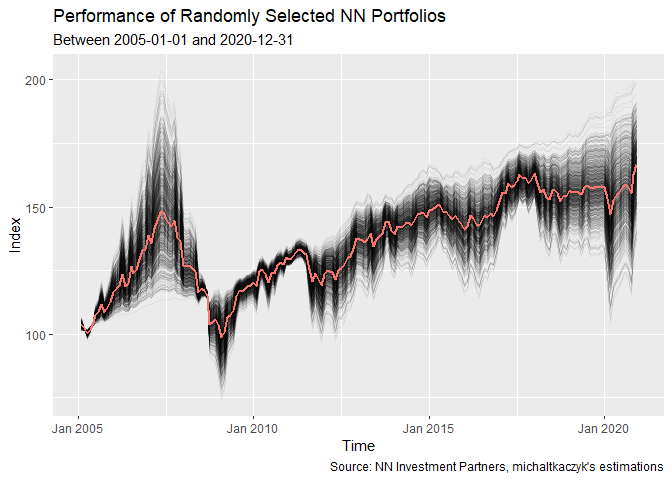
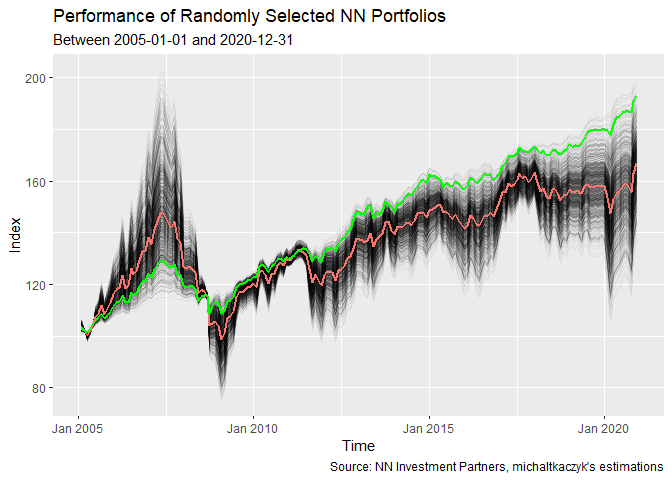
Major style changes to main file

diff --git a/main.md b/main.md
@@ -91,14 +91,8 @@ funds_data <- funds_data %>%
 Let’s see where we got after all of those manipulations.
 
 ``` r
-funds_data_dates <- funds_data %>% 
-    index() %>% 
-    as_tibble() %>% 
-    rename(date = value)
-
 funds_data_long <- funds_data %>%
-    as_tibble() %>%
-    add_column(funds_data_dates) %>% 
+    tk_tbl(rename_index = "date") %>% 
     pivot_longer(!date, "fund") %>%
     group_by(fund) %>% 
     arrange(date) %>% 
@@ -116,83 +110,37 @@ ggplot(funds_data_long, aes(x = date, y = value, color = fund)) +
     ylab("Index")
 ```
 
-![](main_files/figure-gfm/unnamed-chunk-10-1.png)<!-- -->
-
-Let’s check some manually created portfolios’ performance.
+![](main_files/figure-gfm/unnamed-chunk-10-1.png)<!-- --> Let’s try
+randomly generating the portfolios.
 
 ``` r
-manual_portfolios <- rbind(
-    c(1, 0, 0, 0, 0),
-    c(1, 1, 0, 0, 0),
-    c(1, 0, 1, 0, 0),
-    c(1, 0, 0, 1, 0),
-    c(1, 0, 0, 0, 1),
-    c(1, 1, 1, 1, 1)) %>% 
-    apply(1, function(x) x / sum(x)) %>% 
+N_PORTFOLIOS <- 1000
+
+random_portfolios_weights <-
+    N_PORTFOLIOS %>%
+    replicate(generate_random_portfolio_weights(NCOL(funds_data))) %>% 
     t()
 
-manual_portfolios_results <- list()
+colnames(random_portfolios_weights) <- colnames(funds_data)
 
-for (portfolio in 1:NROW(manual_portfolios)) {
-    manual_portfolios_results[[portfolio]] <- 
-        Return.portfolio(funds_data, manual_portfolios[portfolio, ]) %>%
-        as_tibble() %>% 
-        add_column(date = index(funds_data)) %>% 
-        mutate(portfolio = paste("portfolio", portfolio)) %>% 
-        rename(value = portfolio.returns)
+random_portfolios_results_list <- list()
+
+for (portfolio in 1:N_PORTFOLIOS) {
+    random_portfolios_results_list[[portfolio]] <- 
+        Return.portfolio(funds_data, random_portfolios_weights[portfolio, ]) %>%
+        tk_tbl(rename_index = "date") %>% 
+        mutate(
+            value = cumprod(portfolio.returns + 1) * 100,
+            portfolio = paste("portfolio", portfolio)) %>% 
+        select(-portfolio.returns)
 }
 
-portfolio_comparison <- manual_portfolios_results %>%
-    bind_rows() %>% 
-    group_by(portfolio) %>% 
-    mutate(value = cumprod(value + 1) * 100)
+random_portfolios_results <- random_portfolios_results_list %>%
+    bind_rows()
 ```
 
 ``` r
-ggplot(portfolio_comparison, aes(x = date, y = value, color = portfolio)) +
-    geom_line() +
-    labs(
-        title = "Performance of Manually Selected NN Portfolios",
-        subtitle = paste("Between", START_DAY, "and", END_DAY),
-        caption = "Source: NN Investment Partners, michaltkaczyk's estimations",
-        color = "Portfolio") +
-    xlab("Time") +
-    ylab("Index")
-```
-
-![](main_files/figure-gfm/unnamed-chunk-12-1.png)<!-- -->
-
-What if we tried randomly generating the portfolios?
-
-``` r
-n_portfolios <- 1000
-
-random_portfolios <-
-    n_portfolios %>%
-    replicate(generate_random_portfolio_weights(5)) %>% 
-    t()
-
-colnames(random_portfolios) <- colnames(funds_data)
-
-random_portfolios_results <- list()
-
-for (portfolio in 1:NROW(random_portfolios)) {
-    random_portfolios_results[[portfolio]] <- 
-        Return.portfolio(funds_data, random_portfolios[portfolio, ]) %>%
-        as_tibble() %>% 
-        add_column(date = index(funds_data)) %>% 
-        mutate(portfolio = paste("portfolio", portfolio)) %>% 
-        rename(value = portfolio.returns)
-}
-
-random_portfolio_comparison <- random_portfolios_results %>%
-    bind_rows() %>% 
-    group_by(portfolio) %>% 
-    mutate(value = cumprod(value + 1) * 100)
-```
-
-``` r
-ggplot(random_portfolio_comparison) +
+p1 <- ggplot(random_portfolios_results) +
     geom_line(aes(x = date, y = value, group = portfolio), alpha = 0.05) +
     labs(
         title = "Performance of Randomly Selected NN Portfolios",
@@ -202,28 +150,31 @@ ggplot(random_portfolio_comparison) +
     stat_summary(aes(x = date, y = value), fun = mean, geom = "line", color = "#F8766D", size = 1) +
     xlab("Time") +
     ylab("Index")
+
+p1
 ```
 
-![](main_files/figure-gfm/unnamed-chunk-14-1.png)<!-- -->
+![](main_files/figure-gfm/unnamed-chunk-12-1.png)<!-- -->
 
 ``` r
-funds_data_cov <- funds_data %>% cov(use = "na.or.complete")
-funds_data_avg <- funds_data %>% apply(2, mean, na.rm = TRUE)
+funds_expected_returns_vector <- (1 + apply(funds_data, 2, mean, na.rm = TRUE)) ^ 12 - 1
+funds_covariance_matrix <- cov(funds_data, use = "na.or.complete") * 12
 
-random_portfolios_results_avg <- matrix(nrow = NROW(random_portfolios), ncol = 2)
-colnames(random_portfolios_results_avg) <- c("return", "risk")
+random_portfolios_averages <- random_portfolios_weights %>% 
+    as_tibble() %>% 
+    add_column(risk = 0, return = 0)
 
-for (portfolio in 1:NROW(random_portfolios)){
-    random_portfolios_results_avg[portfolio, 1] <- ((1 + sum(random_portfolios[portfolio, ] * funds_data_avg)) ^ 12) - 1
-    random_portfolios_results_avg[portfolio, 2] <- as.numeric(sqrt(random_portfolios[portfolio, ] %*% funds_data_cov %*% random_portfolios[portfolio, ])) * 12
+for (portfolio in 1:N_PORTFOLIOS) {
+    funds_weights <- random_portfolios_weights[portfolio, ]
+    
+    random_portfolios_averages[portfolio, "return"] <-
+        sum(funds_expected_returns_vector * funds_weights)
+    
+    random_portfolios_averages[portfolio, "risk"] <-
+        as.numeric(sqrt(funds_weights %*% funds_covariance_matrix %*% funds_weights))
 }
 
-random_portfolios_results_avg <-
-    bind_cols(
-        as_tibble(random_portfolios_results_avg),
-        as_tibble(random_portfolios))
-
-ggplot(random_portfolios_results_avg, aes(x = risk, y = return)) +
+p2 <- ggplot(random_portfolios_averages, aes(x = risk, y = return)) +
     geom_point() +
     labs(
         title = "Average Performance of Randomly Selected NN Portfolios",
@@ -232,6 +183,34 @@ ggplot(random_portfolios_results_avg, aes(x = risk, y = return)) +
     ylab("Return") +
     scale_x_continuous(labels = scales::percent) +
     scale_y_continuous(labels = scales::percent)
+
+p2
 ```
 
-![](main_files/figure-gfm/unnamed-chunk-15-1.png)<!-- -->
+![](main_files/figure-gfm/unnamed-chunk-13-1.png)<!-- -->
+
+Let’s try this portfolio:
+
+``` r
+selected_portfolio_weights <- c(.1, 0, .7, .1, .1)
+
+selected_portfolio_results <- Return.portfolio(funds_data, selected_portfolio_weights) %>% 
+    tk_tbl(rename_index = "date") %>% 
+    mutate(
+        value = cumprod(portfolio.returns + 1) * 100,
+        portfolio = "selected") %>% 
+    select(-portfolio.returns)
+
+selected_portfolio_return <- sum(funds_expected_returns_vector * selected_portfolio_weights)
+selected_portfolio_risk <- as.numeric(sqrt(selected_portfolio_weights %*% funds_covariance_matrix %*% selected_portfolio_weights))
+
+p1 + stat_summary(data = selected_portfolio_results, aes(x = date, y = value), fun = mean, geom = "line", color = "green", size = 1)
+```
+
+![](main_files/figure-gfm/unnamed-chunk-14-1.png)<!-- -->
+
+``` r
+p2 + geom_point(aes(y = selected_portfolio_return, x = selected_portfolio_risk), colour = "green")
+```
+
+![](main_files/figure-gfm/unnamed-chunk-14-2.png)<!-- -->
